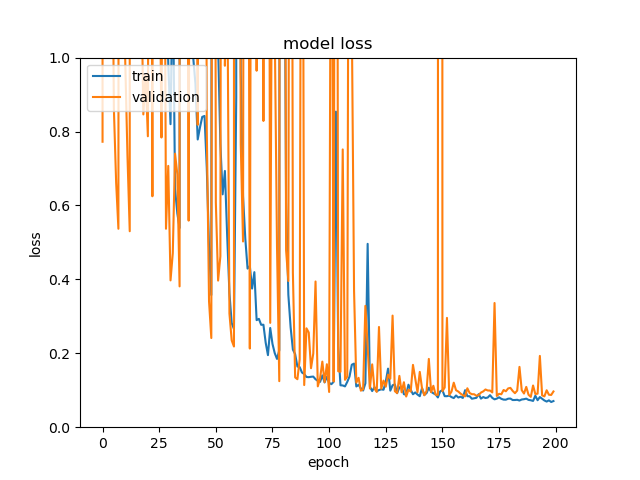
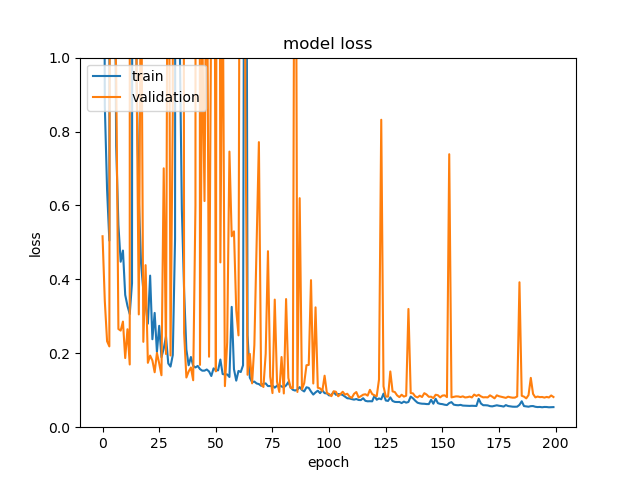
decreasing fitlter size for time constraints

Changed region(s): [[0.1562, 0.125, 0.875, 0.875]]

diff --git a/convTilesetUser.py b/convTilesetUser.py
@@ -11,39 +11,37 @@ from pathlib import Path
 import matplotlib.pyplot as plt
 import random
 
-#model = load_model('tilesetmaker-L20.0005.h5')
-#model2 = load_model('tilesetmaker-before0.0001.h5')
-model3 = load_model('tilesetmaker-before1e-05.h5')
+model2 = load_model('tilesetmaker-before1e-05.h5')
+model3 = load_model('tilesetmaker-before5e-06.h5')
 model4 = load_model('tilesetmaker-before1e-06.h5')
-model5 = load_model('tilesetmaker-noDropout0.0001.h5')
-model6 = load_model('tilesetmaker-noDropout1e-05.h5')
-model7 = load_model('tilesetmaker-noDropout5e-06.h5')
-#model8 = load_model('tilesetmaker-noDropout1e-06.h5')
+
+model5 = load_model('tilesetmaker-after1e-05.h5')
+model6 = load_model('tilesetmaker-after5e-06.h5')
+model7 = load_model('tilesetmaker-after1e-06.h5')
 
 def testImage(filenames):
-    _, axs = plt.subplots(len(filenames), 9)
+    _, axs = plt.subplots(len(filenames), 8)
     for i in range(len(filenames)):
         filename = filenames[i]
         image = Image.open(filename).convert('RGB')
         data = np.asarray(image)
         data = data/255
-        #output = model.predict(np.expand_dims(data, axis=0))
-        #output2 = model2.predict(np.expand_dims(data, axis=0))
+        output2 = model2.predict(np.expand_dims(data, axis=0))
         output3 = model3.predict(np.expand_dims(data, axis=0))
         output4 = model4.predict(np.expand_dims(data, axis=0))
         output5 = model5.predict(np.expand_dims(data, axis=0))
         output6 = model6.predict(np.expand_dims(data, axis=0))
         output7 = model7.predict(np.expand_dims(data, axis=0))
-        #output8 = model8.predict(np.expand_dims(data, axis=0))
+        
         axs[i, 0].imshow(data)
-        #axs[i, 1].imshow(output[0])
-        #axs[i, 2].imshow(output2[0])
-        axs[i, 3].imshow(output3[0])
-        axs[i, 4].imshow(output4[0])
+        axs[i, 1].imshow(output2[0])
+        axs[i, 2].imshow(output3[0])
+        axs[i, 3].imshow(output4[0])
         axs[i, 5].imshow(output5[0])
         axs[i, 6].imshow(output6[0])
         axs[i, 7].imshow(output7[0])
-        #axs[i, 8].imshow(output8[0])
     plt.show()
 
-testImage(['pictures/wood.png', 'pictures/moonA.jpg', 'tilesets/mario1/x.png'])
+
+subdirs = [str(x) for x in Path("./tilesets").iterdir() if x.is_dir()]
+testImage(['celestefootage.png', 'pictures/wood.png', 'pictures/moonA.jpg', random.choice(subdirs) + '/x.png'])

diff --git a/convTilesetTester.py b/convTilesetTester.py
@@ -30,15 +30,15 @@ def loadData(path):
     return x,y
 
 (x_train, y_train) = loadData("tilesets")
-#model1 = load_model('tilesetmaker-before0.0005.h5')
-model2 = load_model('tilesetmaker-before0.0001.h5')
-model3 = load_model('tilesetmaker-before1e-05.h5')
+#model1 = load_model('tilesetmaker-before0.0001.h5')
+model2 = load_model('tilesetmaker-before1e-05.h5')
+model3 = load_model('tilesetmaker-before5e-06.h5')
 model4 = load_model('tilesetmaker-before1e-06.h5')
 
-model5 = load_model('tilesetmaker-noDropout0.0001.h5')
-model6 = load_model('tilesetmaker-noDropout1e-05.h5')
-#model7 = load_model('tilesetmaker-noDropout5e-06.h5')
-model8 = load_model('tilesetmaker-noDropout1e-06.h5')
+#model5 = load_model('tilesetmaker-noDropout0.0001.h5')
+model6 = load_model('tilesetmaker-after1e-05.h5')
+model7 = load_model('tilesetmaker-after5e-06.h5')
+model8 = load_model('tilesetmaker-after1e-06.h5')
 
 for i in range(10):
     imgInd = random.randint(0, len(x_train)-1)
@@ -54,12 +54,12 @@ for i in range(10):
     axs[1, 1].imshow(img_rgb2[0])#, cmap='gray')
     axs[1, 2].imshow(img_rgb3[0])#, cmap='gray')
     axs[1, 3].imshow(img_rgb4[0])#, cmap='gray')
-    img_rgb1 = model5.predict(img_rgb)
+    #img_rgb1 = model5.predict(img_rgb)
     img_rgb2 = model6.predict(img_rgb)
-    #img_rgb3 = model7.predict(img_rgb)
+    img_rgb3 = model7.predict(img_rgb)
     img_rgb4 = model8.predict(img_rgb)
-    axs[2, 0].imshow(img_rgb1[0])#, cmap='gray')
+    #axs[2, 0].imshow(img_rgb1[0])#, cmap='gray')
     axs[2, 1].imshow(img_rgb2[0])#, cmap='gray')
-    #axs[2, 2].imshow(img_rgb3[0])#, cmap='gray')
+    axs[2, 2].imshow(img_rgb3[0])#, cmap='gray')
     axs[2, 3].imshow(img_rgb4[0])#, cmap='gray')
     plt.show()

diff --git a/convTilesetMaker.py b/convTilesetMaker.py
@@ -83,7 +83,7 @@ def loadData(path, variate=True):
 
 def my_model(x_train, y_train, x_val, y_val, params):
     input_img = Input(shape=(256, 256, 3))
-    filter_size = 256
+    filter_size = 128
 
     # A: 256 -> 128
     A = Conv2D(filter_size, (3, 3), strides=2, padding='same',
@@ -208,7 +208,7 @@ talos.Scan(x_train, y_train, p, my_model, x_val=x_validation, y_val=y_validation
 # decrease filter size to improve memory usage
 # decrease lambda further than 1e-06
 # ReduceLROnPlateau when val_loss plateaus to go from macro learning to fine-tuning what validation error plateaus
-# Use Teros on adam beta1 and beta2
+# Adam beta1 and beta2
 # have a new file of metrics that holds graphs for different filter_sizes and check which has most attuned loss/val-loss
 # adding another layer of conv2D and conv2DTranspose? if that doesn't work, removing?
 # Taking out lambda regularization from decoding? How about decoding?
